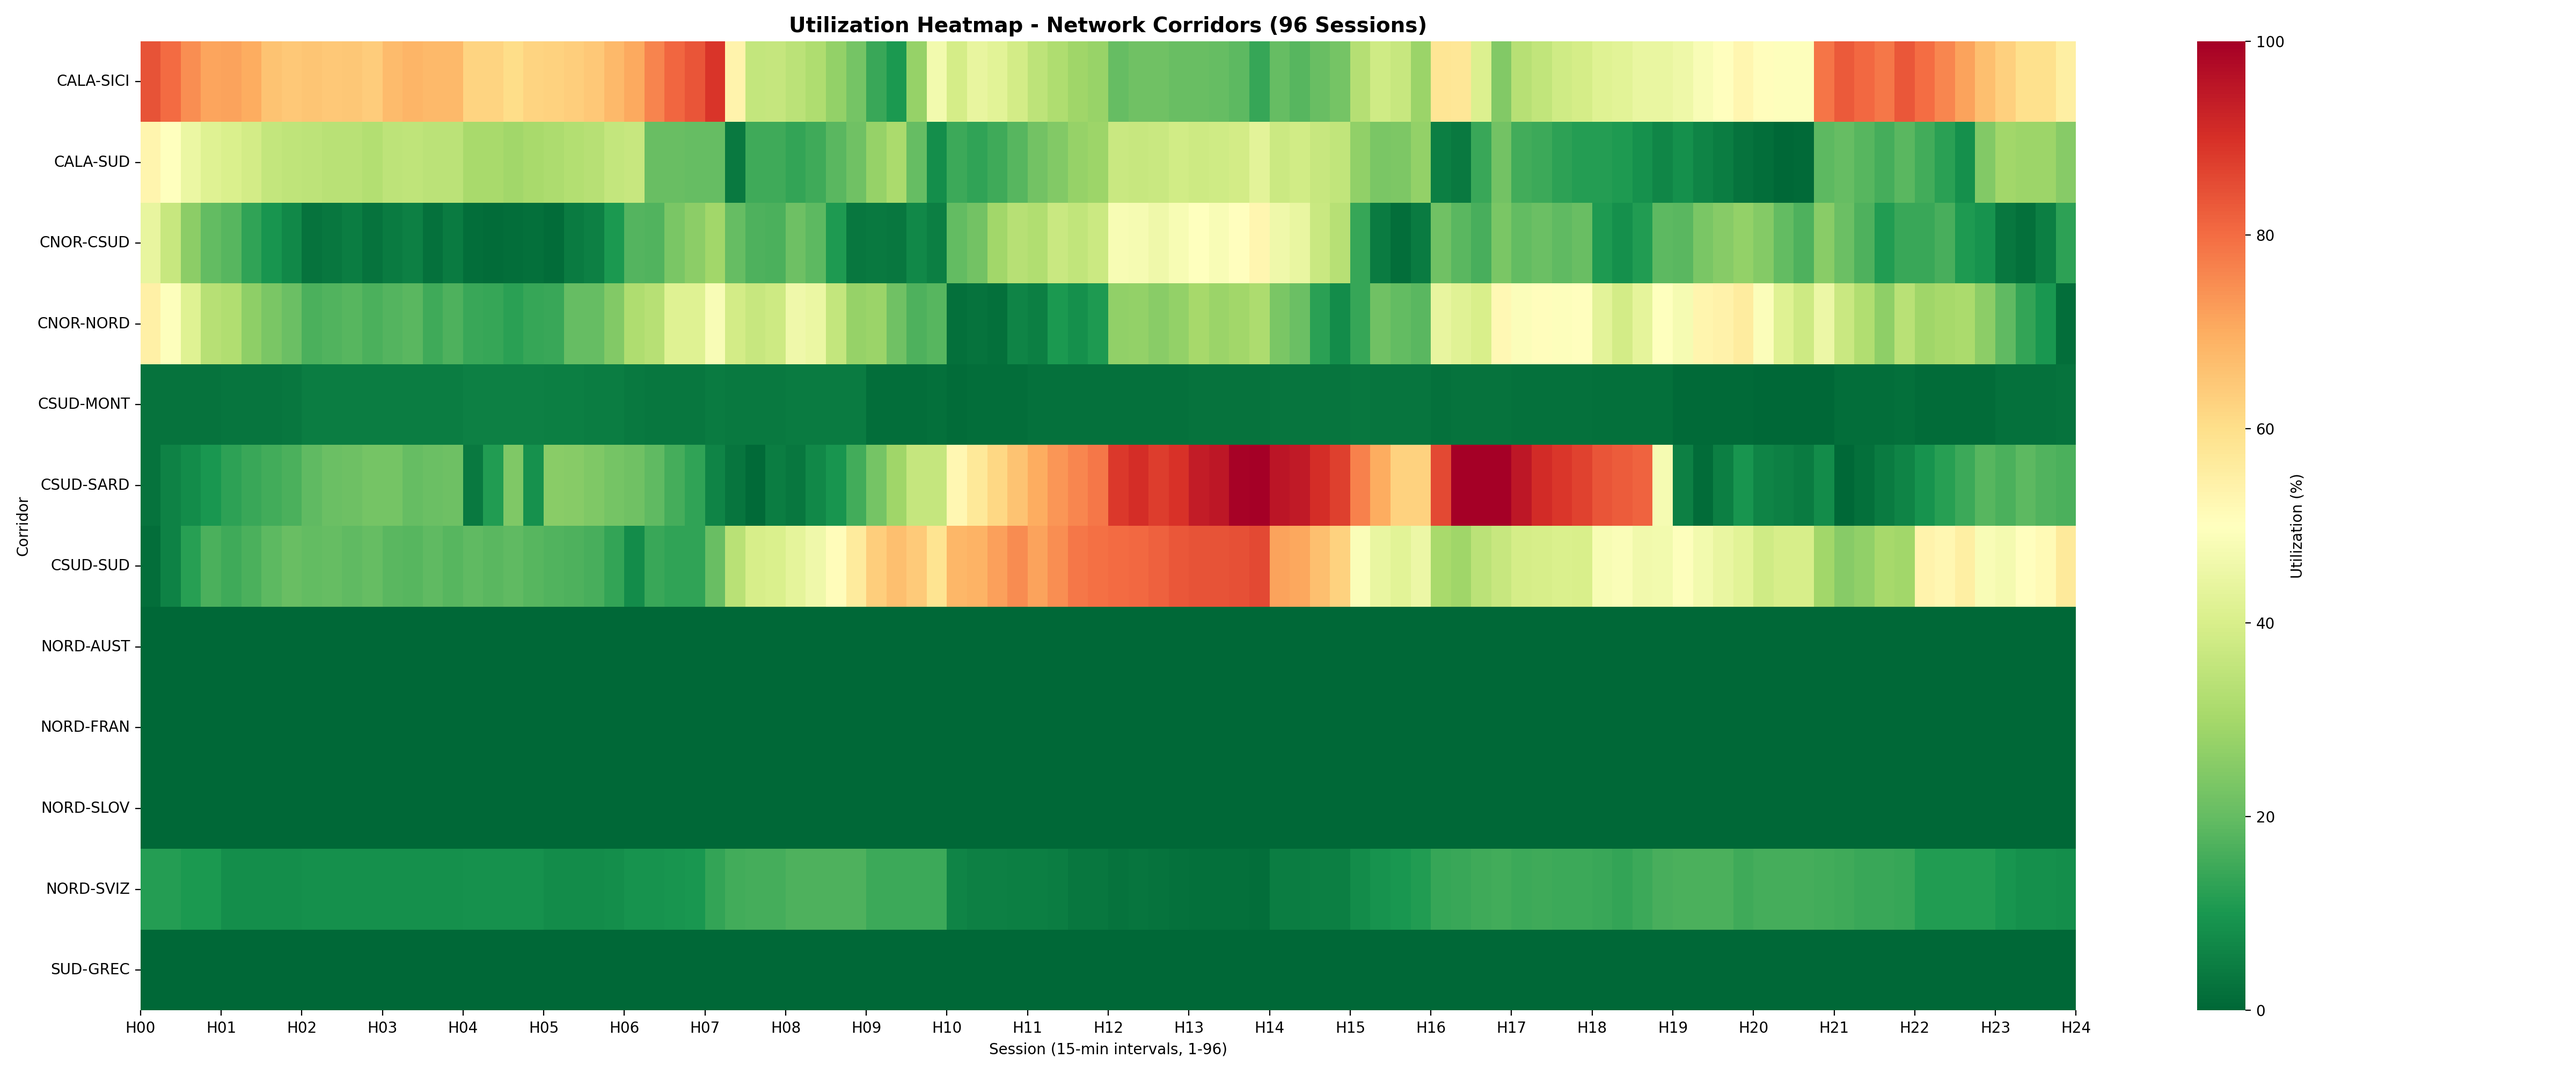
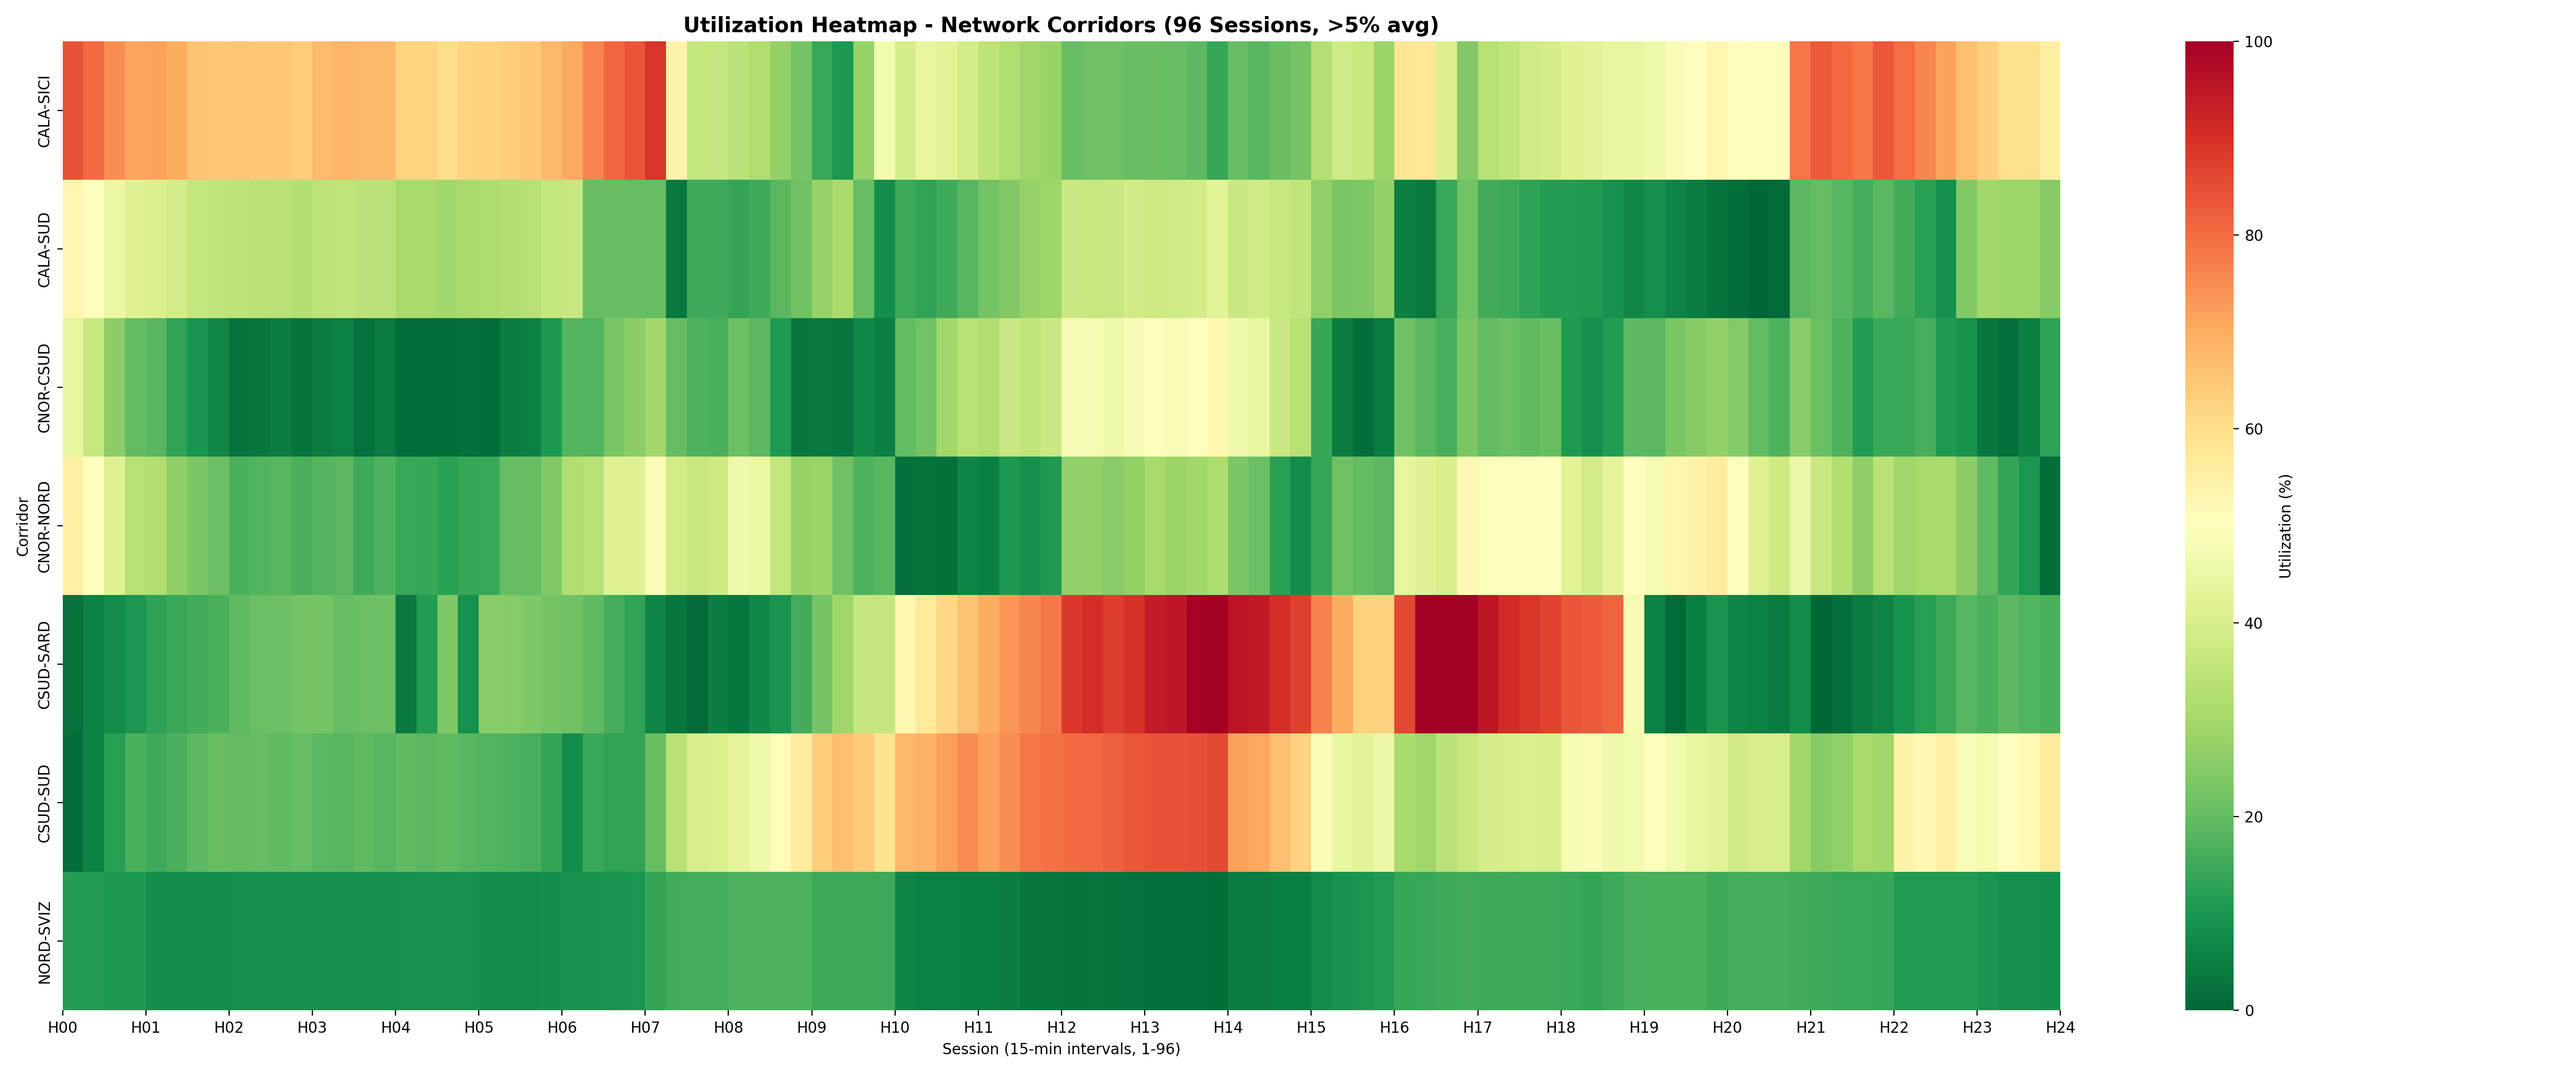
Filter: Remove corridors with <5% avg utilization from heatmap
- Cleaner visualization focusing on congested corridors
- Title updated to show filter criterion
- Output shows corridor count

diff --git a/analyze_congestion.py b/analyze_congestion.py
@@ -160,26 +160,31 @@ def analyze_congestion(flow_csv, price_csv, output_dir='analysis'):
     
     # Show all network corridors (no need to filter, already filtered)
     if len(avg_util) > 0:
-        top_corridors = avg_util.head(15).index
-        pivot_top = pivot_util.loc[pivot_util.index.intersection(top_corridors)]
-        
-        fig, ax = plt.subplots(figsize=(24, 10))
-        sns.heatmap(pivot_top, cmap='RdYlGn_r', center=50, vmin=0, vmax=100,
-                    annot=False, fmt='.1f', cbar_kws={'label': 'Utilization (%)'})
-        plt.title('Utilization Heatmap - Network Corridors (96 Sessions)', fontsize=14, fontweight='bold')
-        plt.xlabel('Session (15-min intervals, 1-96)')
-        plt.ylabel('Corridor')
-        
-        # Add hour markers on x-axis
-        hour_ticks = [i*4 for i in range(25)]  # 0, 4, 8, ..., 96
-        hour_labels = [f'H{i:02d}' for i in range(25)]
-        ax.set_xticks(hour_ticks)
-        ax.set_xticklabels(hour_labels, rotation=0)
-        
-        plt.tight_layout()
-        plt.savefig(f'{output_dir}/congestion_heatmap_96sessions.png', dpi=200)
-        print(f"  Saved: {output_dir}/congestion_heatmap_96sessions.png")
-        plt.close()
+        # Filter out low-utilization corridors (< 5% avg)
+        significant_corridors = avg_util[avg_util >= 5.0]
+        if len(significant_corridors) == 0:
+            print("  No corridors with utilization >= 5%, skipping heatmap")
+        else:
+            top_corridors = significant_corridors.head(15).index
+            pivot_top = pivot_util.loc[pivot_util.index.intersection(top_corridors)]
+            
+            fig, ax = plt.subplots(figsize=(24, 10))
+            sns.heatmap(pivot_top, cmap='RdYlGn_r', center=50, vmin=0, vmax=100,
+                        annot=False, fmt='.1f', cbar_kws={'label': 'Utilization (%)'})
+            plt.title(f'Utilization Heatmap - Network Corridors (96 Sessions, >5% avg)', fontsize=14, fontweight='bold')
+            plt.xlabel('Session (15-min intervals, 1-96)')
+            plt.ylabel('Corridor')
+            
+            # Add hour markers on x-axis
+            hour_ticks = [i*4 for i in range(25)]  # 0, 4, 8, ..., 96
+            hour_labels = [f'H{i:02d}' for i in range(25)]
+            ax.set_xticks(hour_ticks)
+            ax.set_xticklabels(hour_labels, rotation=0)
+            
+            plt.tight_layout()
+            plt.savefig(f'{output_dir}/congestion_heatmap_96sessions.png', dpi=200)
+            print(f"  Saved: {output_dir}/congestion_heatmap_96sessions.png ({len(pivot_top)} corridors)")
+            plt.close()
     
     # Visualization 2: Morning vs midday comparison
     # Filter out corridors with inf utilization (capacity = 0)
